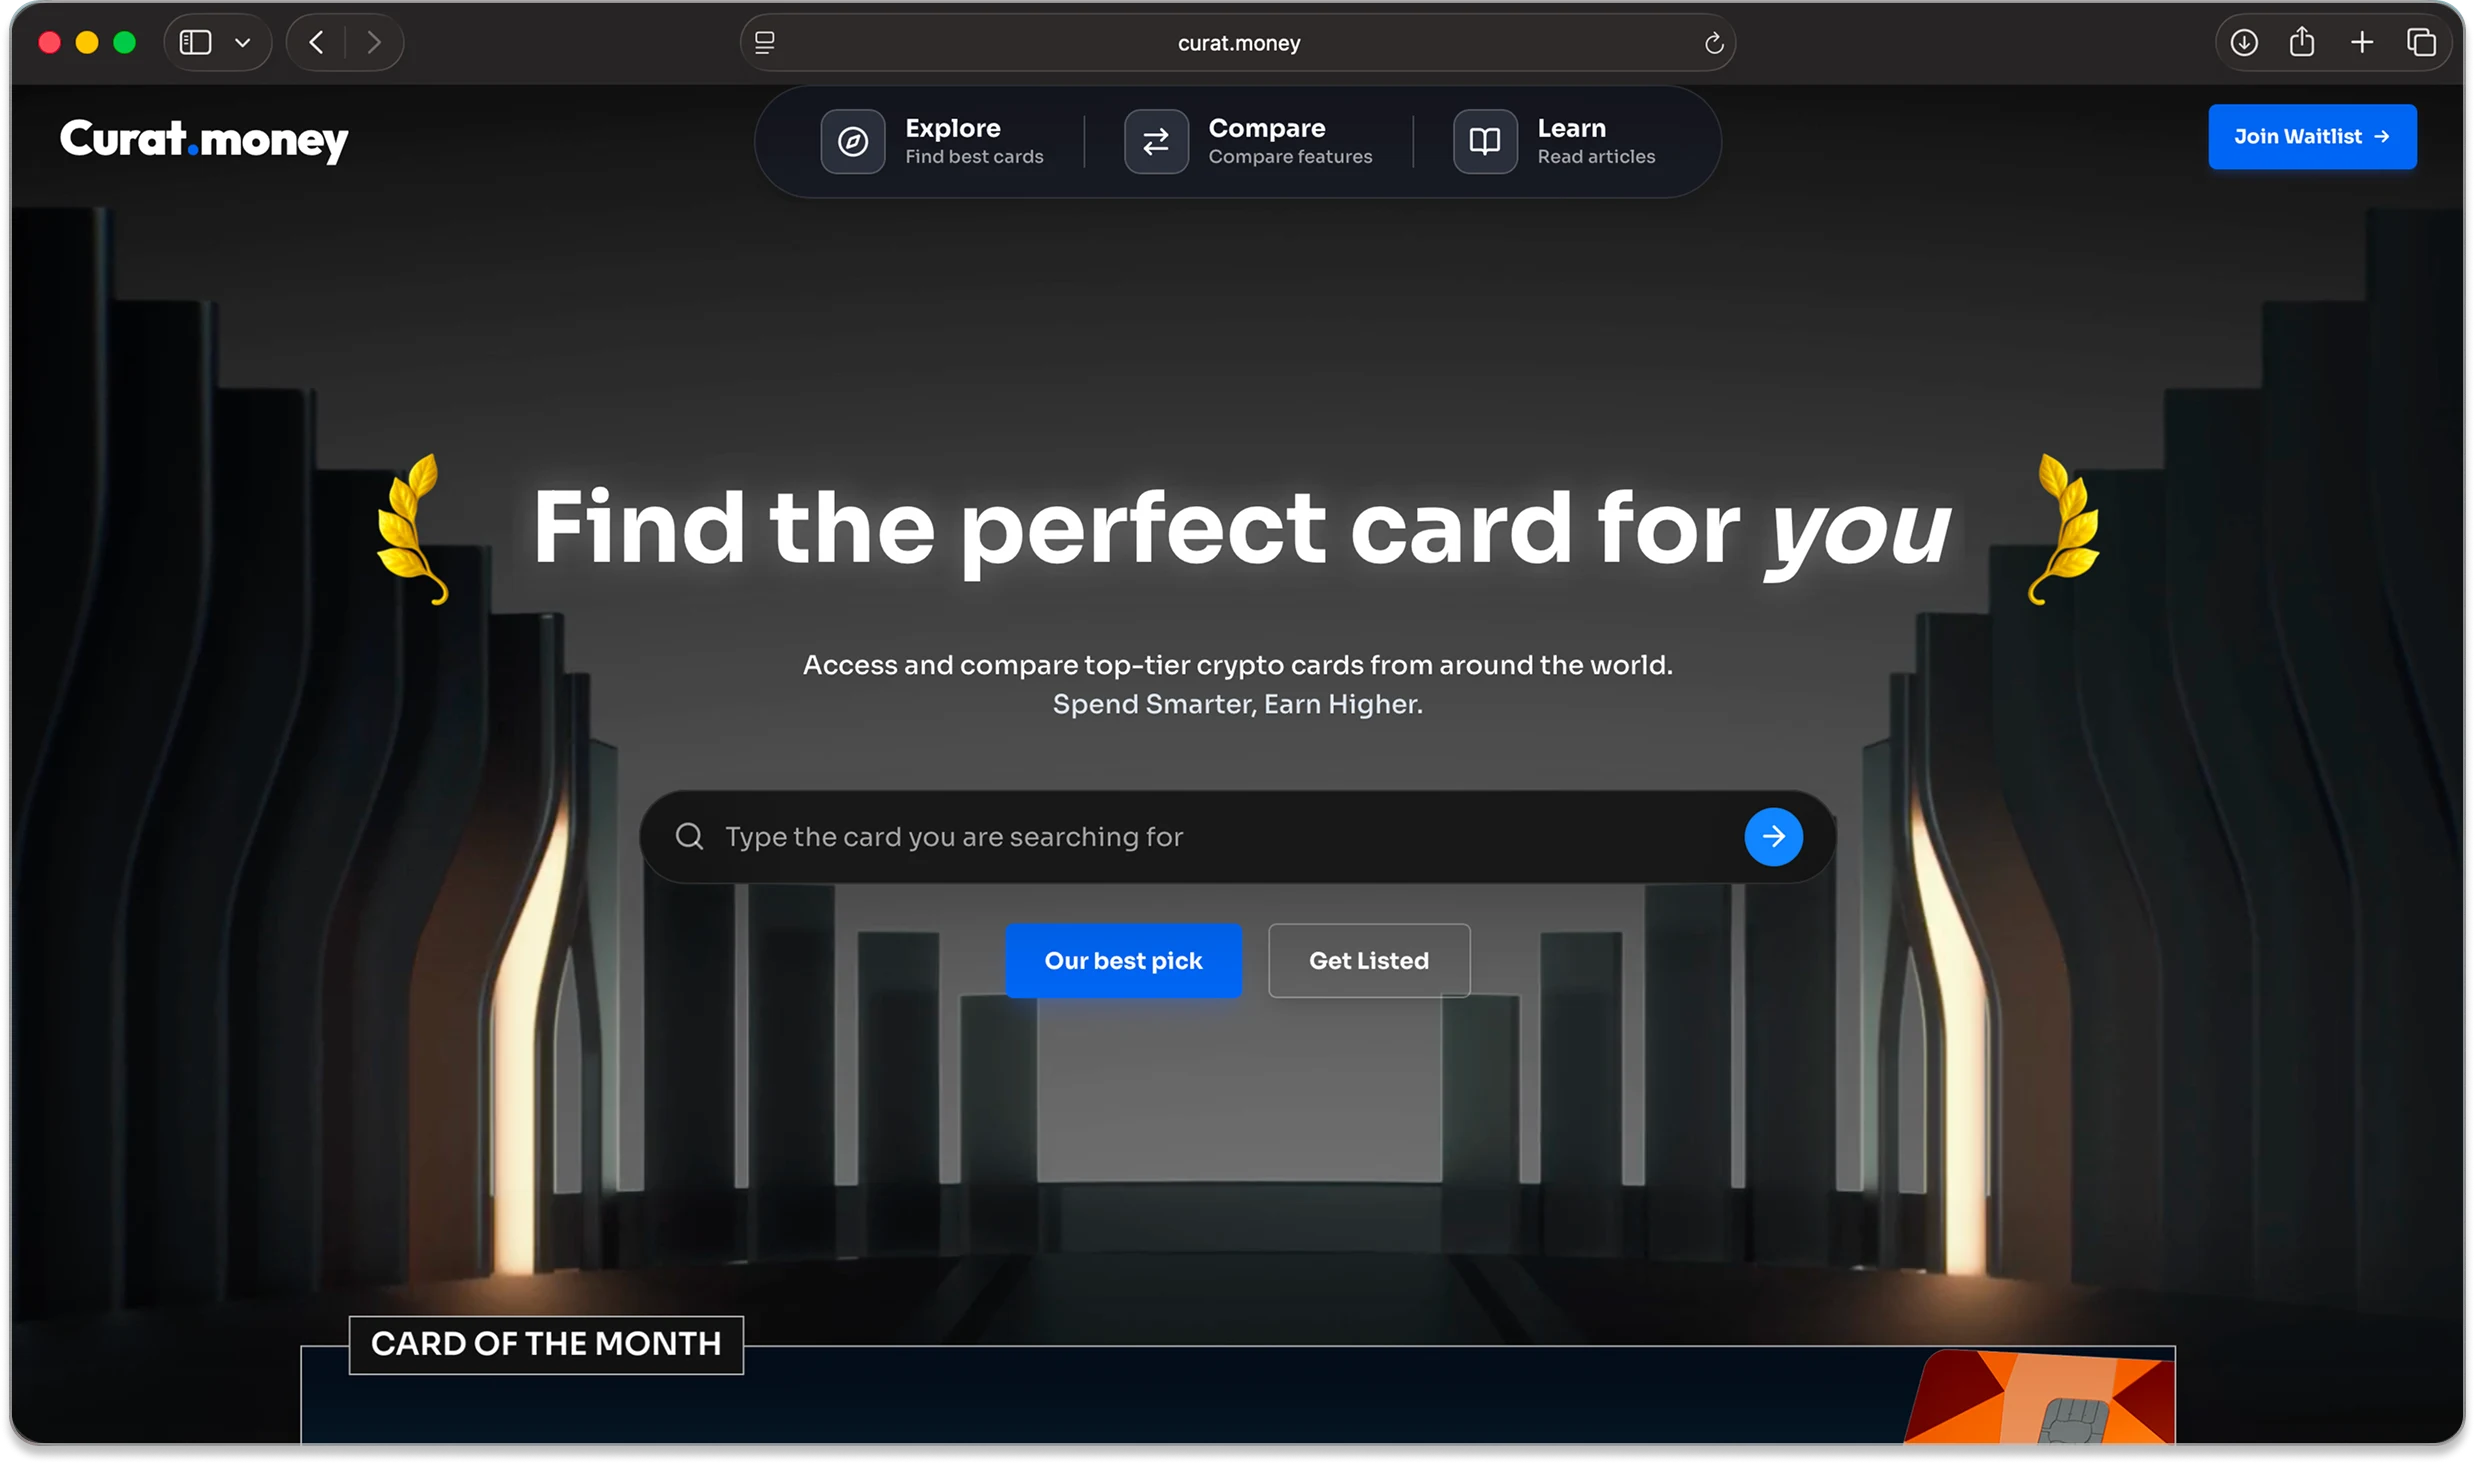
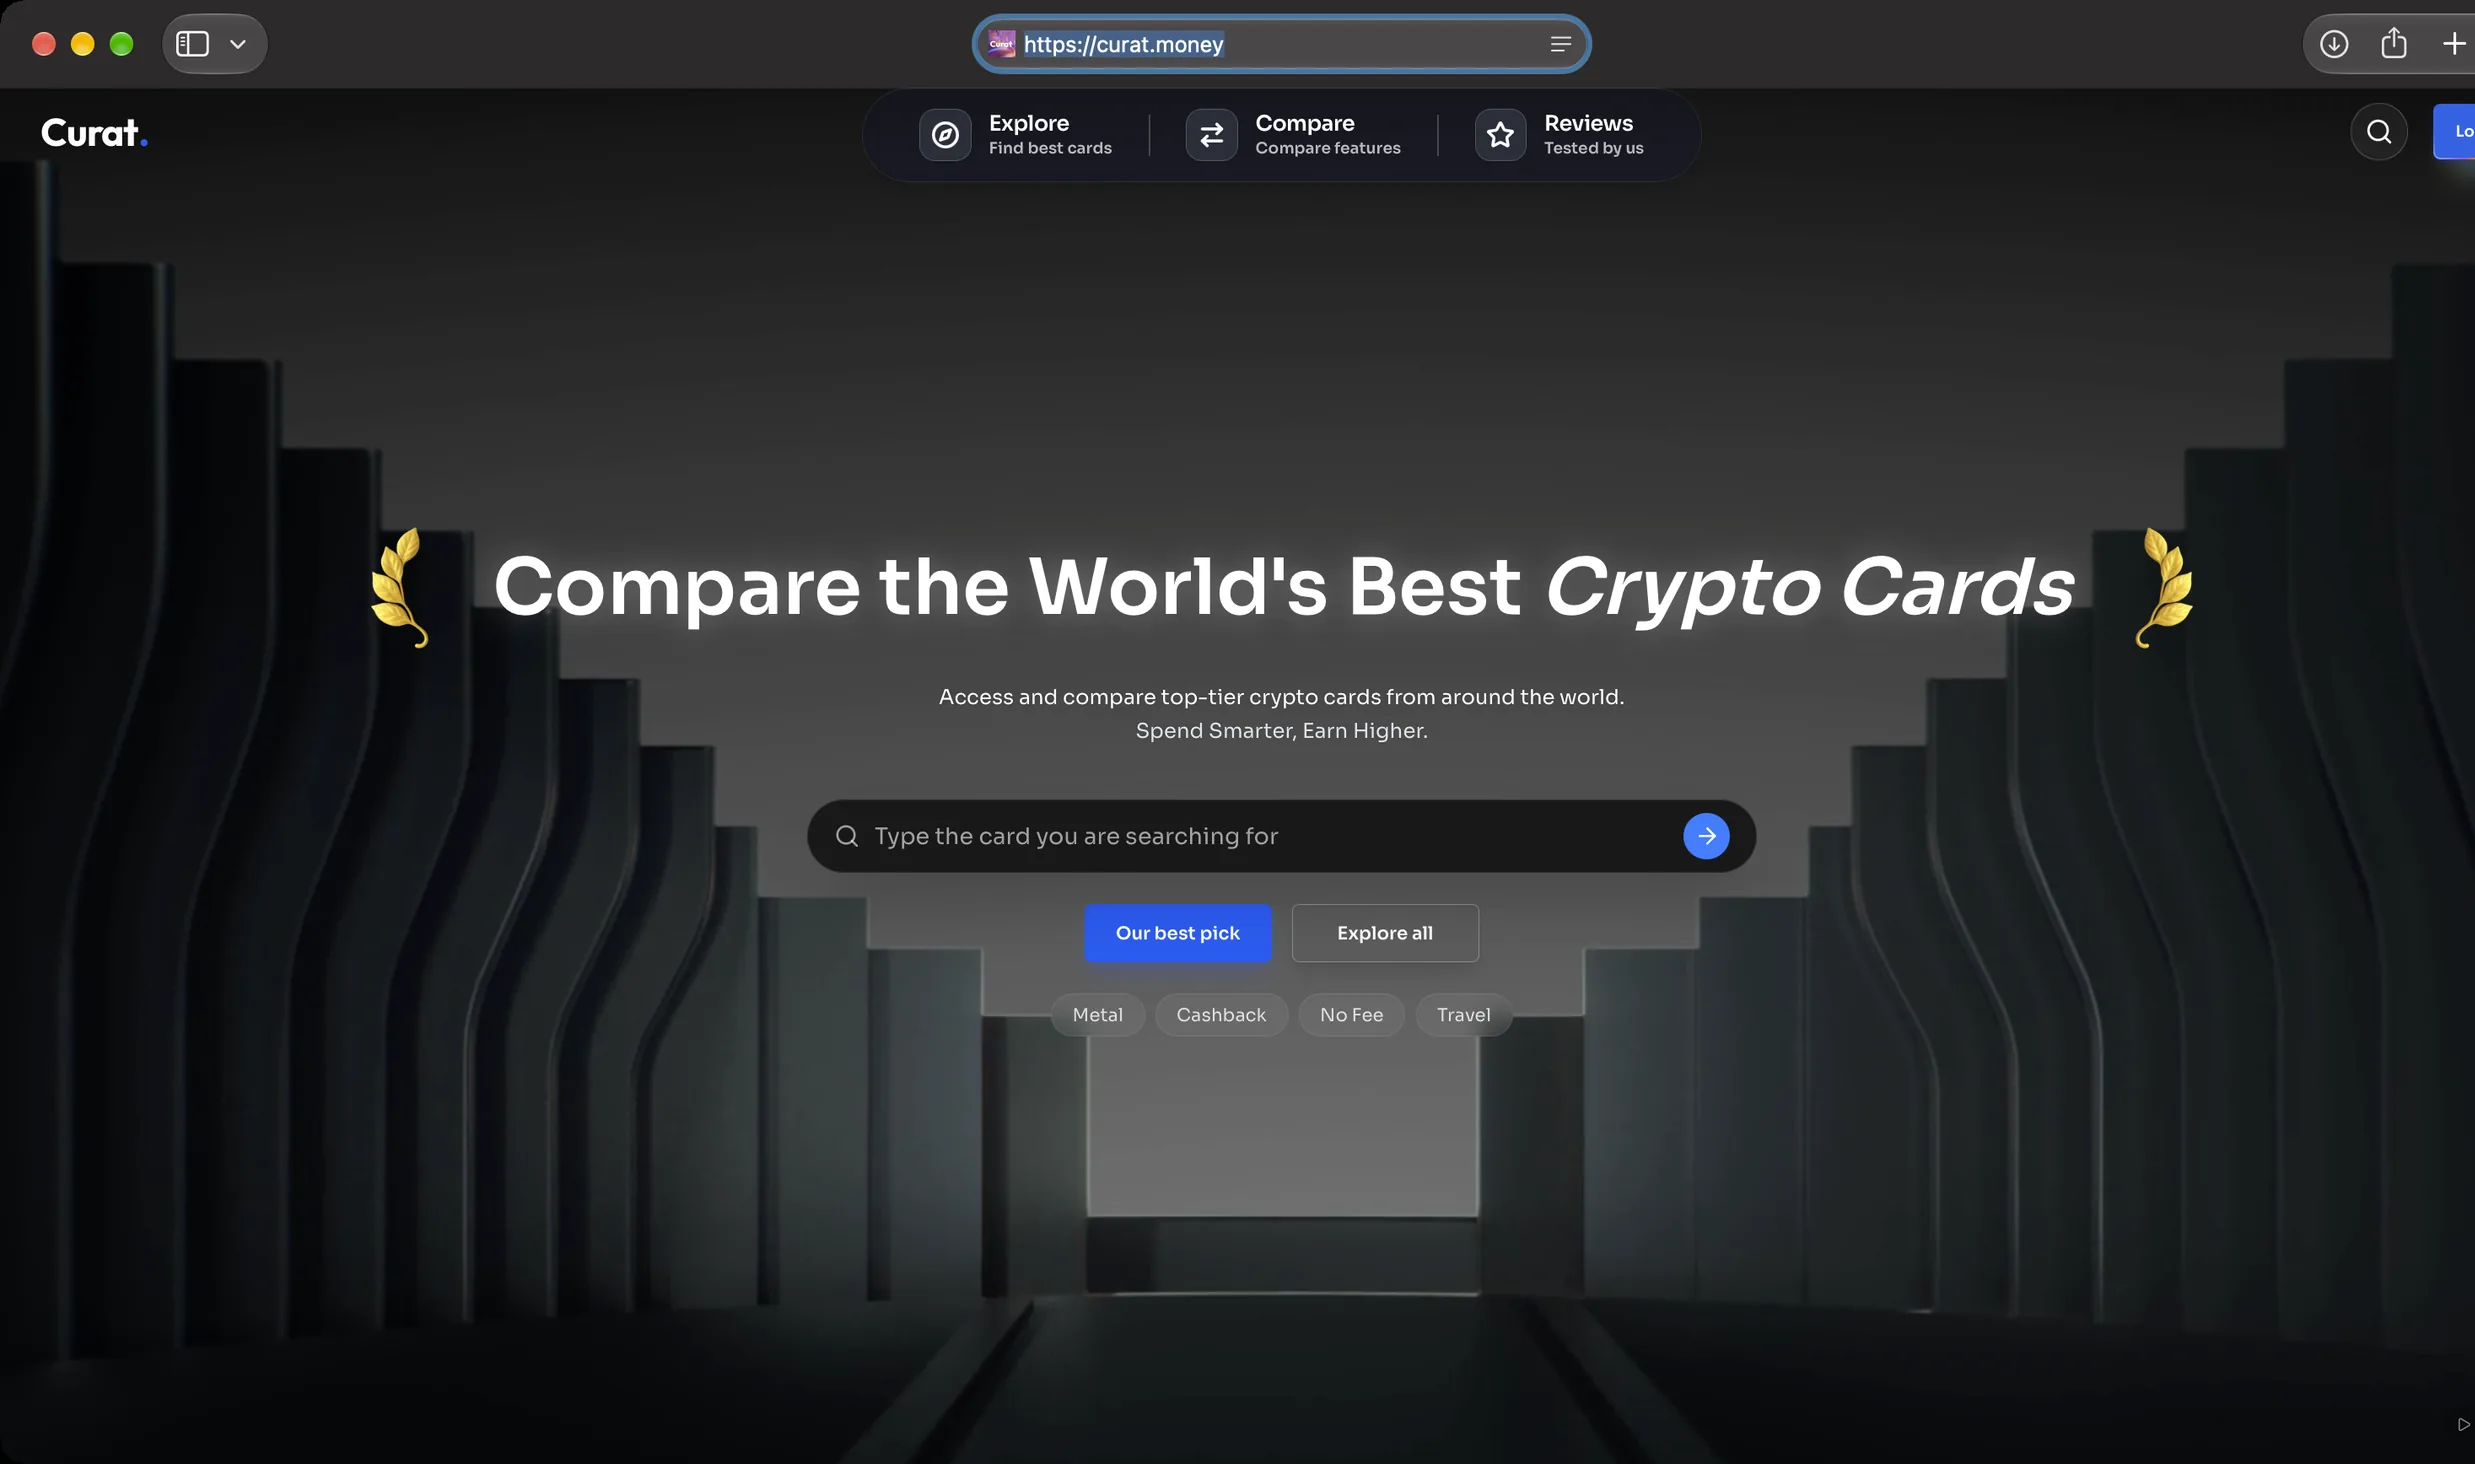
chore: update optimized product interface overlays and alt text

Changed region(s): [[0.0, 0.0, 1.0, 1.0], [0.3111, 0.0, 0.6844, 0.123], [0.28, 0.0, 0.3111, 0.0307]]

diff --git a/index.html b/index.html
@@ -564,7 +564,7 @@
           <div class="product-visual product-visual--layered">
             <figure class="product-interface-figure product-visual-stack">
               <img class="product-visual-background" src="assets/images/product-curat-background.webp?v=3" alt="" width="2560" height="1435" aria-hidden="true" />
-              <img class="product-visual-foreground" src="assets/images/product-curat-overlay.webp?v=2" alt="Curat homepage hero showing Find the perfect card for you with card search" width="2475" height="1464" />
+              <img class="product-visual-foreground" src="assets/images/product-curat-overlay.webp?v=3" alt="Curat homepage hero showing Compare the World's Best Crypto Cards with card search" width="2475" height="1464" />
             </figure>
           </div>
         </section>
